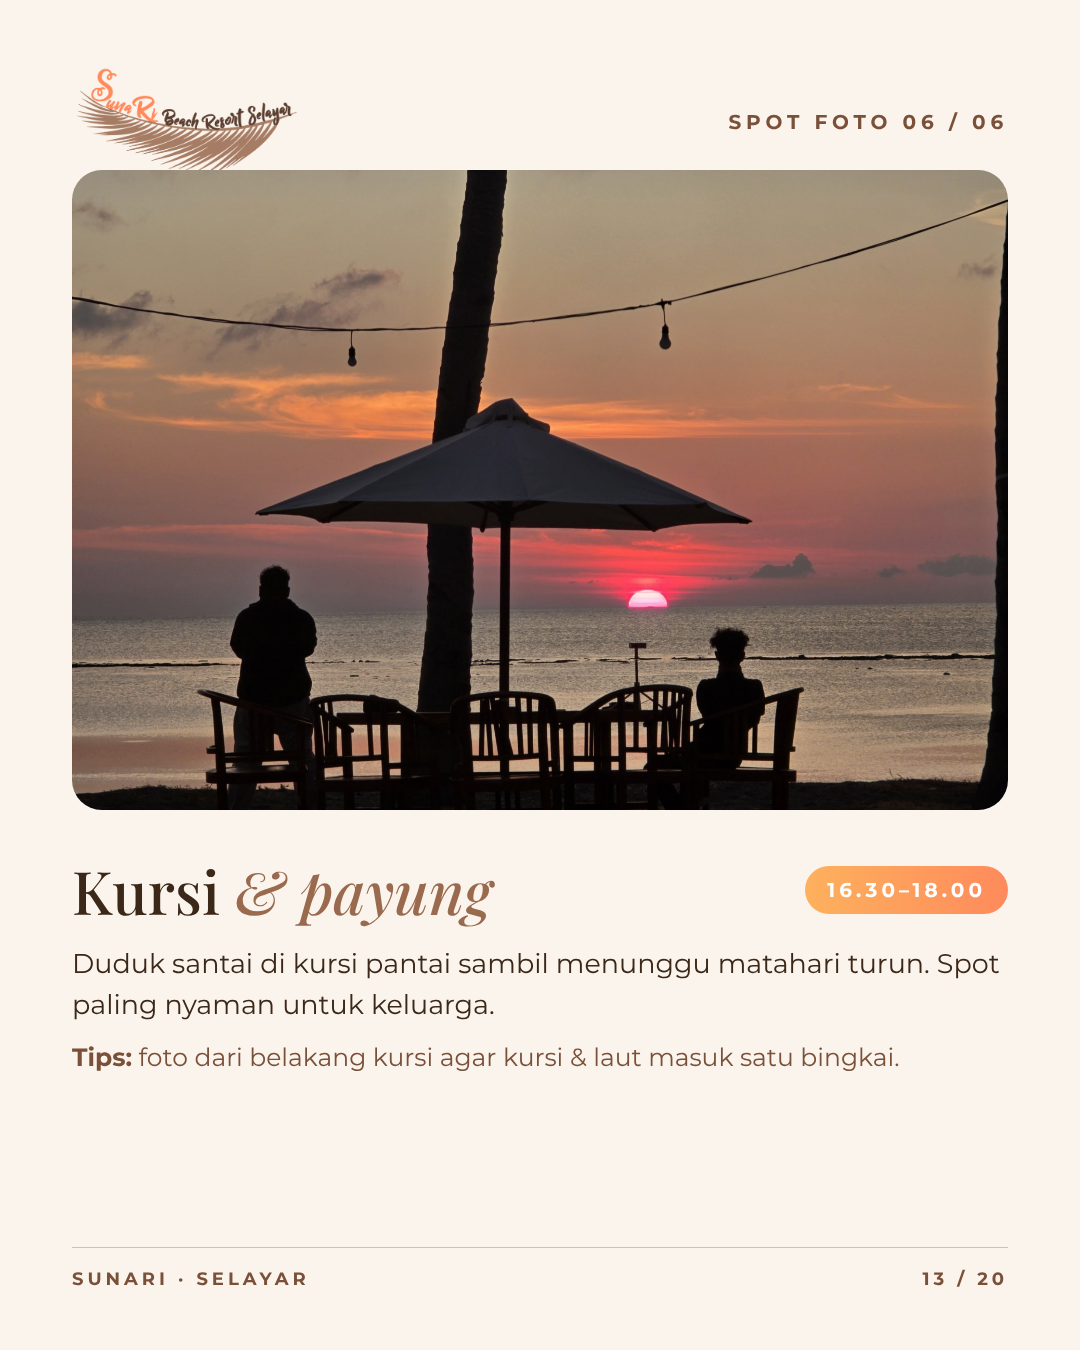
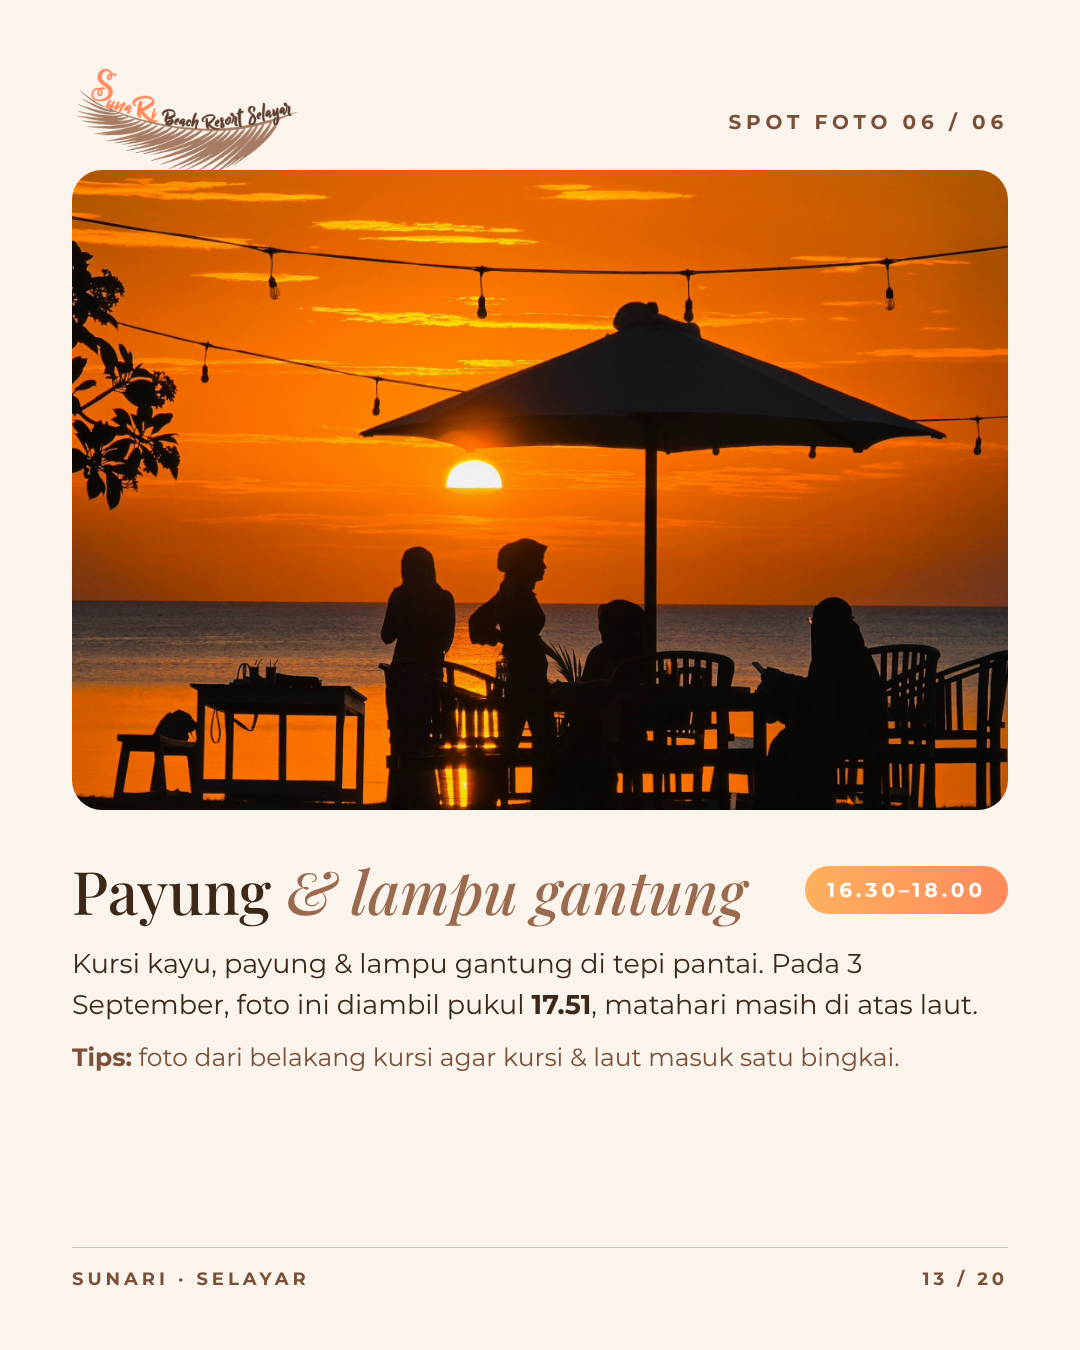
Add beach umbrella sunset photos; use in sunset guide spot 6
Claude-Session: https://claude.ai/code/session_01AizaiBQtsTmWERPRfEgVV4

diff --git a/social/sunset.html b/social/sunset.html
@@ -86,10 +86,10 @@ ul.tips li b{font-weight:700}
     <div style="font-size:27px;line-height:1.5;margin-top:14px">Ranting pohon meranggas di tepi pantai membingkai matahari. Favorit untuk foto artistik.</div>
     <div style="font-size:25px;line-height:1.5;margin-top:14px;color:#7A5039"><b>Tips:</b> posisikan matahari di sela ranting, lalu ketuk langit untuk exposure.</div></div>
   <div class="ft"><span>SunaRi · Selayar</span><span>12 / 20</span></div></div><div class="t f" id="sunset-13"><div class="top"><img src="../assets/logo-sunari-color.png" alt=""><span class="caps">Spot foto 06 / 06</span></div>
-  <img class="photo" src="../assets/photos/senja/07-payung-kursi-pantai.jpg" style="position:absolute;left:72px;right:72px;width:936px;top:170px;height:640px;object-position:50% 60%" alt="">
+  <img class="photo" src="../assets/photos/senja/32-payung-lampu-senja-1751.jpg" style="position:absolute;left:72px;right:72px;width:936px;top:170px;height:640px;object-position:50% 55%" alt="">
   <div style="position:absolute;left:72px;right:72px;top:850px">
-    <div style="display:flex;align-items:center;justify-content:space-between"><div class="pf" style="font-size:60px">Kursi <span class='it'>&amp; payung</span></div><span class="tag">16.30–18.00</span></div>
-    <div style="font-size:27px;line-height:1.5;margin-top:14px">Duduk santai di kursi pantai sambil menunggu matahari turun. Spot paling nyaman untuk keluarga.</div>
+    <div style="display:flex;align-items:center;justify-content:space-between"><div class="pf" style="font-size:60px">Payung <span class='it'>&amp; lampu gantung</span></div><span class="tag">16.30–18.00</span></div>
+    <div style="font-size:27px;line-height:1.5;margin-top:14px">Kursi kayu, payung &amp; lampu gantung di tepi pantai. Pada 3 September, foto ini diambil pukul <b>17.51</b>, matahari masih di atas laut.</div>
     <div style="font-size:25px;line-height:1.5;margin-top:14px;color:#7A5039"><b>Tips:</b> foto dari belakang kursi agar kursi &amp; laut masuk satu bingkai.</div></div>
   <div class="ft"><span>SunaRi · Selayar</span><span>13 / 20</span></div></div><div class="t f" id="sunset-14"><div class="top"><img src="../assets/logo-sunari-color.png" alt=""><span class="caps">Tips foto · Pengaturan ponsel</span></div>
   <div class="mid"><div class="pf" style="font-size:64px;line-height:1.06">Atur ponselmu <span class="it">sebelum 17.30</span></div><ul class="tips"><li><i>1</i><span style="font-size:26px"><b>Ketuk langit, bukan matahari.</b> Lalu geser ikon ☀ ke bawah. Warna lebih pekat, siluet lebih tajam.</span></li><li><i>2</i><span style="font-size:26px"><b>Kunci fokus &amp; exposure</b> (tekan lama di layar: AE/AF Lock) agar tidak berubah saat memotret.</span></li><li><i>3</i><span style="font-size:26px"><b>Matikan flash.</b> Flash membuat wajah pucat &amp; merusak warna senja.</span></li><li><i>4</i><span style="font-size:26px"><b>Jangan zoom digital.</b> Pakai lensa 2x/3x bawaan atau mendekatlah.</span></li><li><i>5</i><span style="font-size:26px"><b>HDR otomatis</b> boleh menyala untuk pemandangan, matikan jika ingin siluet hitam pekat.</span></li><li><i>6</i><span style="font-size:26px"><b>Bersihkan lensa</b> dengan kain halus, udara pantai mudah membuatnya berkabut.</span></li></ul></div><div class="ft"><span>SunaRi · Selayar</span><span>14 / 20</span></div></div><div class="t f" id="sunset-15"><div class="top"><img src="../assets/logo-sunari-color.png" alt=""><span class="caps">Tips foto · Komposisi</span></div>

diff --git a/social/build_sunset.py b/social/build_sunset.py
@@ -127,7 +127,7 @@ spot(9, "aktivitas/07-ayunan-gaun-merah-tengah.jpg", "50% 52%", "02", "Ayunan <s
 spot(10, "vip-standard-bungalow/02-teras-view-pantai.jpg", "50% 60%", "03", "Teras <span class='it'>VIP Standard</span>", "17.00–17.50", "Teras rumah panggung menghadap langsung ke arah matahari terbenam. Senja dari 'rumah sendiri'.", "foto dari dalam teras, jadikan tiang &amp; atap sebagai bingkai.")
 spot(11, "senja/17-kayak-berdua.jpg", "50% 55%", "04", "Di atas <span class='it'>kayak</span>", "17.00–17.40", "Mendayung di air tenang menyongsong senja. Sewa kayak single Rp 50.000, double Rp 100.000.", "minta teman memotret dari bibir pantai agar kayak jadi siluet.")
 spot(12, "senja/23-pohon-meranggas-senja.jpg", "50% 55%", "05", "Pohon <span class='it'>tepi pantai</span>", "17.35–17.55", "Ranting pohon meranggas di tepi pantai membingkai matahari. Favorit untuk foto artistik.", "posisikan matahari di sela ranting, lalu ketuk langit untuk exposure.")
-spot(13, "senja/07-payung-kursi-pantai.jpg", "50% 60%", "06", "Kursi <span class='it'>&amp; payung</span>", "16.30–18.00", "Duduk santai di kursi pantai sambil menunggu matahari turun. Spot paling nyaman untuk keluarga.", "foto dari belakang kursi agar kursi &amp; laut masuk satu bingkai.")
+spot(13, "senja/32-payung-lampu-senja-1751.jpg", "50% 55%", "06", "Payung <span class='it'>&amp; lampu gantung</span>", "16.30–18.00", "Kursi kayu, payung &amp; lampu gantung di tepi pantai. Pada 3 September, foto ini diambil pukul <b>17.51</b>, matahari masih di atas laut.", "foto dari belakang kursi agar kursi &amp; laut masuk satu bingkai.")
 
 # 14 phone exposure
 text_slide(14, "Tips foto · Pengaturan ponsel", 'Atur ponselmu <span class="it">sebelum 17.30</span>',

diff --git a/assets/photos/KATALOG_FOTO.md b/assets/photos/KATALOG_FOTO.md
@@ -23,6 +23,8 @@ Tambahan 20 Nov 2026:
 | `senja/28-matahari-di-bawah-daun.jpg` | Matahari besar merah, perahu kecil di cakrawala | ✅ | Sampul story/Reels, cover highlight |
 | `senja/29-dua-kursi-menghadap-senja.jpg` | Dua sandaran kursi menghadap senja & jalur cahaya di laut | ✅ | Konten pasangan/honeymoon, Senja Dinner |
 | `senja/30-matahari-merah-dan-daun.jpg` | Matahari merah di balik awan, daun ketapang | ✅ | Feed tenang, akhir carousel |
+| `senja/32-payung-lampu-senja-1751.jpg` | Siluet tamu di bawah payung pantai & lampu gantung, matahari di atas laut (3 Sep, **17.51**) | ✅ (siluet) | Panduan senja (spot kursi & payung), feed, Bajoy Beach Resto |
+| `senja/33-payung-kelapa-senja-1749.jpg` | Payung, kursi kayu, pohon kelapa & jalur cahaya (11 Sep, **17.49**) | ✅ (siluet) | Feed, story, OTA (area pantai/resto) |
 
 ## Pantai & Taman
 | File | Isi | Status | Cocok untuk |
